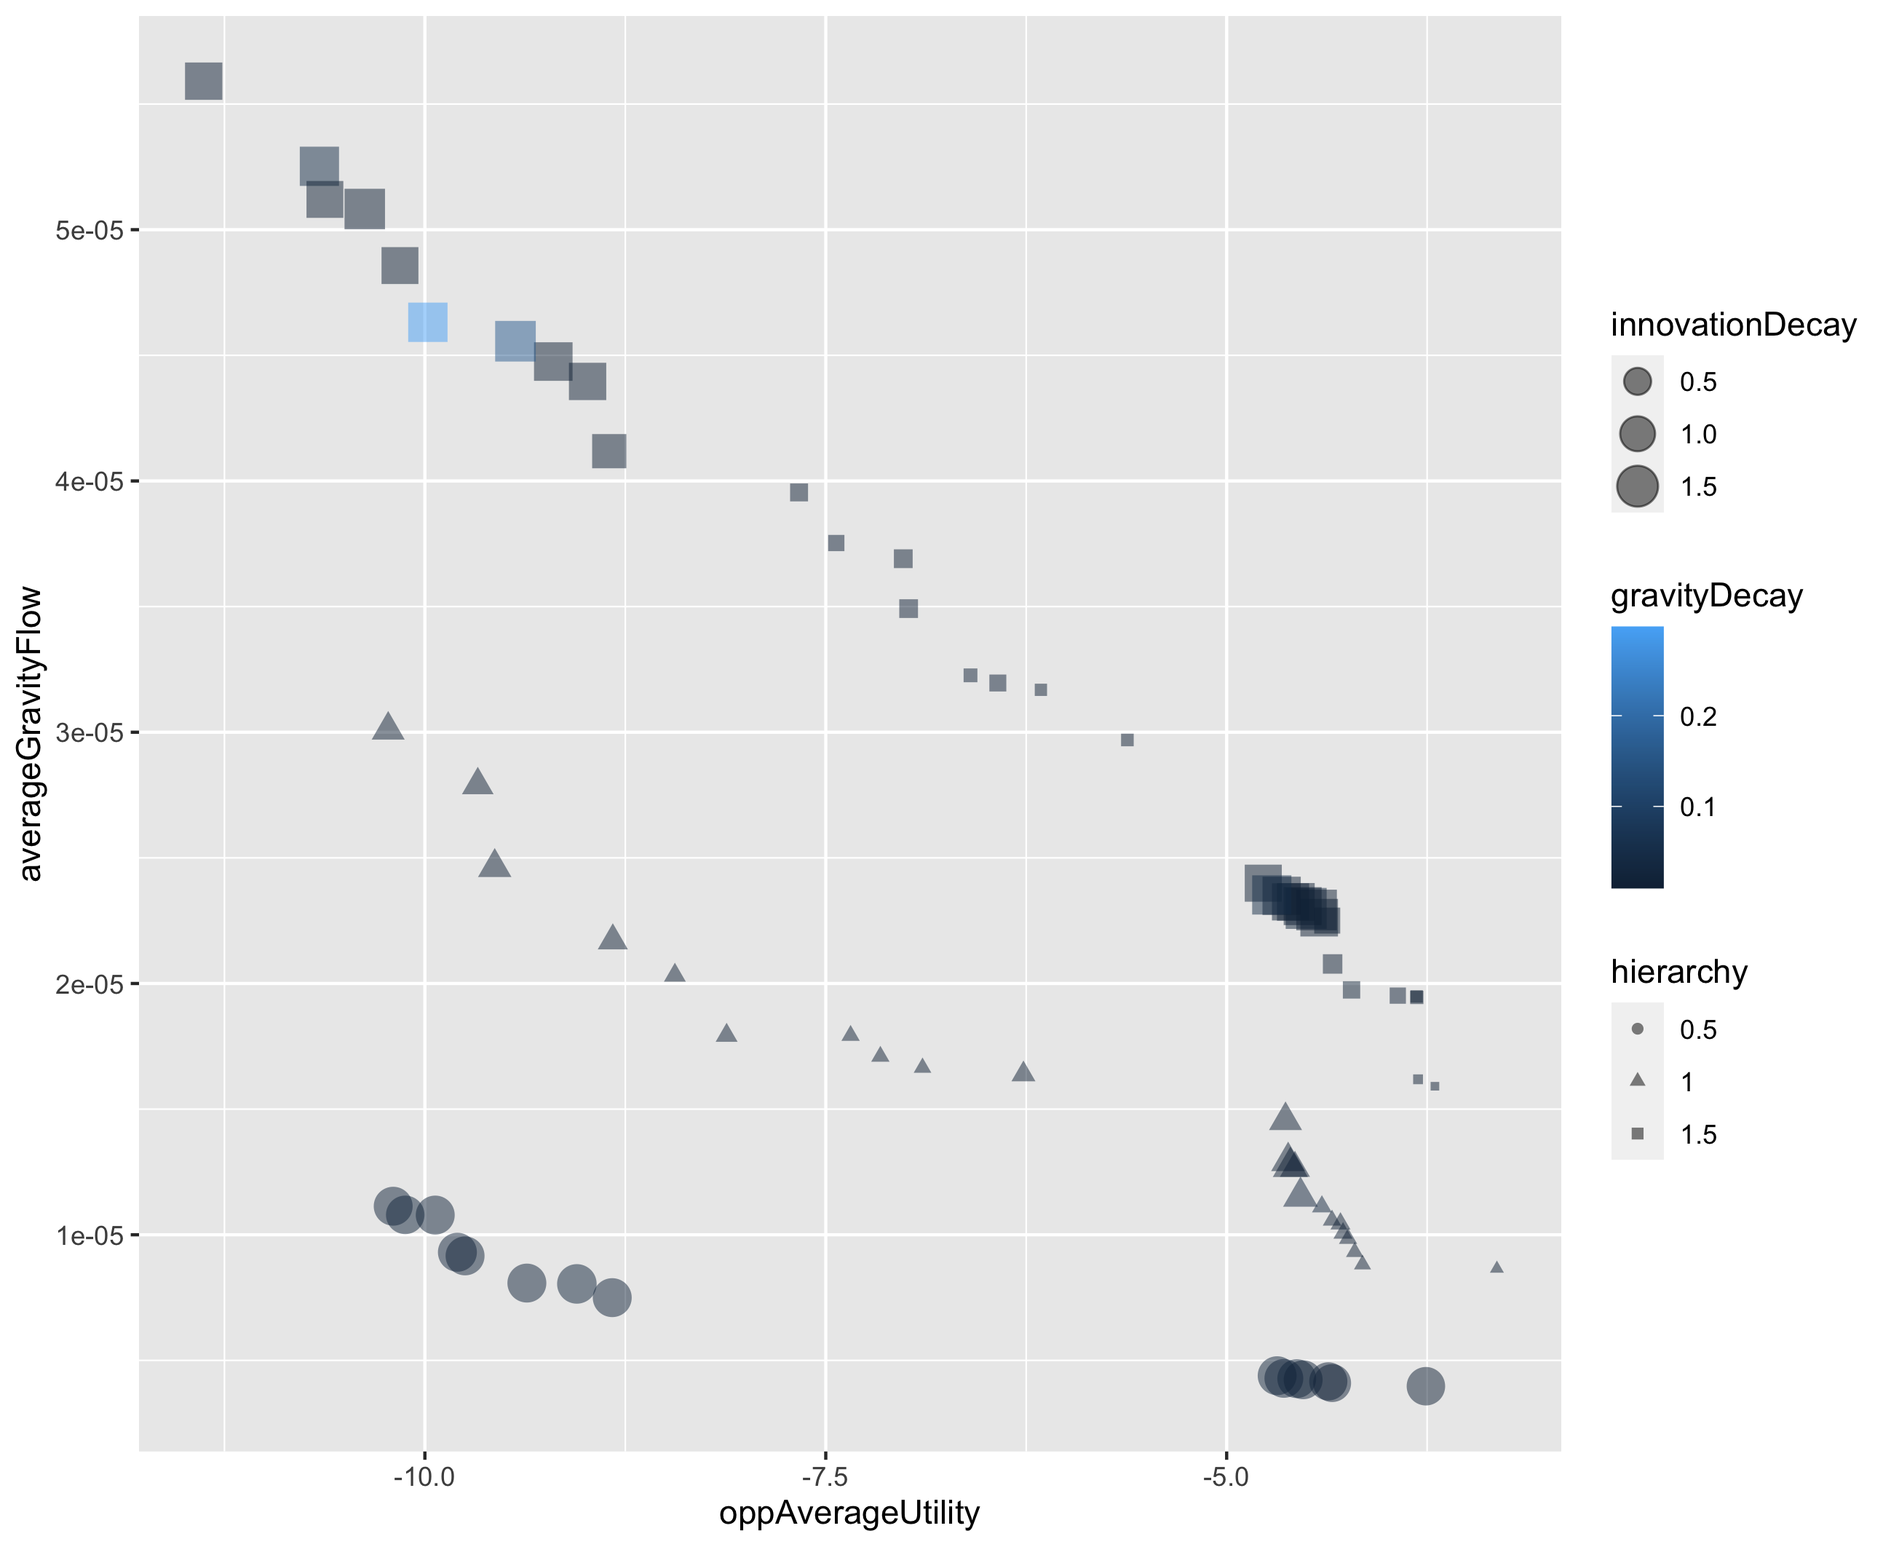
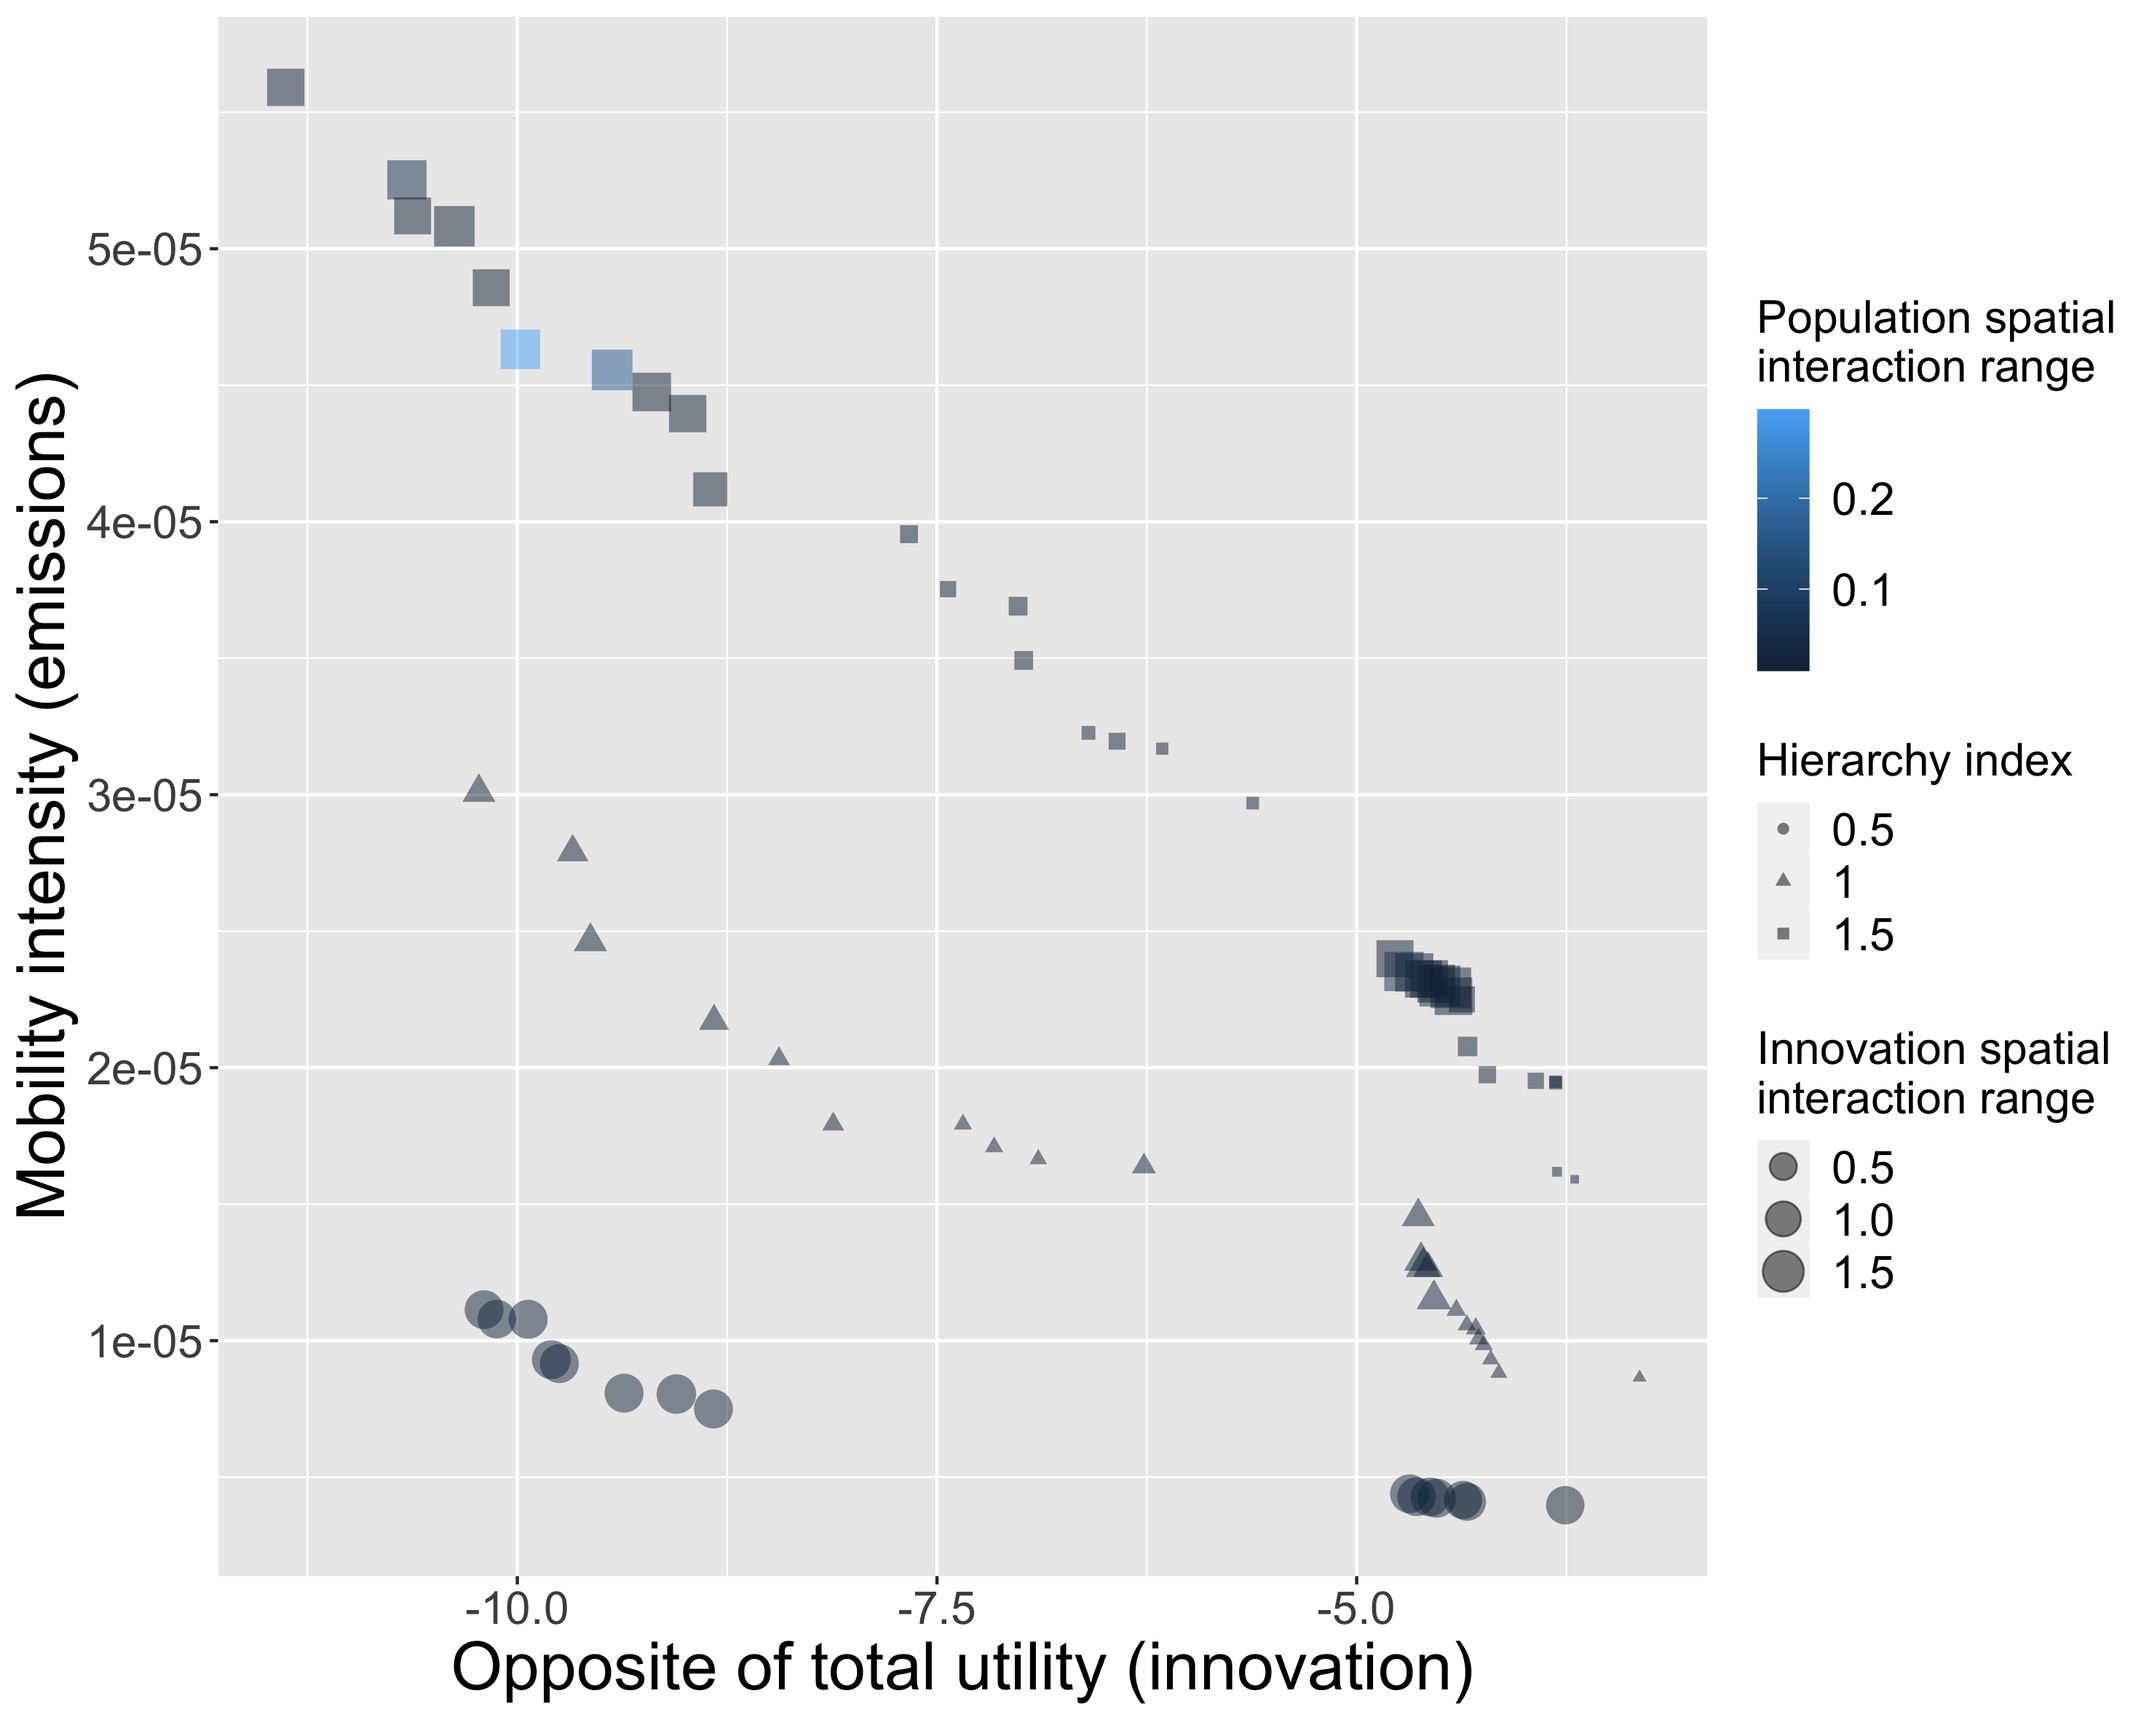
submit_paper

diff --git a/paper.tex b/paper.tex
@@ -9,13 +9,12 @@
 
 \title{Trade-offs between sustainable development goals in systems of cities}
 
+%\author{}
 \author[label1]{Juste Raimbault\corref{cor1}}
 \author[label2]{Denise Pumain}
 
-
 \address[label1]{CASA, University College London}
 \address[label2]{G{\'e}ographie-cit{\'e}s, Universit{\'e} Paris 1}
-
 
 \cortext[cor1]{Corresponding author: juste.raimbault@polytechnique.edu}
 
@@ -30,6 +29,8 @@ Sustainable Development Goals; Systems of Cities; Urban Dynamics; Innovation Dif
 \end{keyword}
 
 \end{frontmatter}
+
+%\end{document}
 
 \linenumbers
 
@@ -90,6 +91,7 @@ The last assumption regarding the utility of new innovations allows capturing so
 \subsection{Model parameters}
 
 The model parameters left free for optimisation are
+
 \begin{enumerate}
     \item spatial interaction range for innovation diffusion
     \item spatial interaction range for population growth
@@ -100,16 +102,29 @@ The model parameters left free for optimisation are
     \item type of distribution for new innovation utilities.
 \end{enumerate}
 
+Some parameters can be parametrised from real data in a rather straightforward way, such as spatial interaction ranges by fitting spatial interaction models on appropriate data for example \citep{fotheringham1989spatial}, or the level of hierarchy for new innovation by fitting urban scaling laws \citep{pumain2006evolutionary}. Other parameters such as innovation rate or the distribution of innovation utilities correspond to a more abstract formulation which can not directly be linked to real-world proxies (for example, innovations compete along a single dimension). Furthermore, some parameters can be linked to potential policies while others can difficultly be acted upon. We choose thus to work with most parameters free to maximise the degrees of freedom explored by the optimisation algorithms, in some sense explore a broader set of scenarios for urban systems.
+
 
 \subsection{Optimisation objectives}
 
-We consider the ``innovation'' SDG (goal 9) and the ``climate'' SDG (goal 14) as conflicting objectives. We can expect that a higher economic activity linked to more intensive innovative activities will increase endogenous emissions, but also transport emissions between urban areas, generated by economic and transport flows. The existence of a trade-off remains an hypothesis which will be checked during the optimisation stage (here ``optimisation'' means trying to minimise simultaneously different stylised output indicators of the model).
+We consider the ``innovation'' SDG (goal 9) and the ``climate'' SDG (goal 14) as conflicting objectives. We can expect that a higher economic activity linked to more intensive innovative activities will increase endogenous emissions, but also transport emissions between urban areas, generated by economic and transport flows. Empirical evidence does not suggest globally a simultaneous reduction of emissions through innovation \citep{chen2020does}. A potential decoupling of economic activity and emissions remains also still difficult to observe \citep{haberl2020systematic}. For these reasons, we can expect a compromise between these two dimensions. The effective existence of a trade-off in synthetic urban dynamics generated by the model remains in that context an hypothesis, which will be checked during the optimisation stage (here ``optimisation'' means trying to minimise simultaneously different stylised output indicators of the model).
 
-\cite{chen2020does}
+We consider therefore the two following objectives for model optimisation:
 
-We consider therefore the two following objectives for model optimisation: (i) aggregated total utility during model dynamics, computed over time and across cities, with shares of each innovations; (ii) total emissions due to transport flows between cities, computed as cumulative population gravity flows.
-% index of mobility intensity
-% emission" est un terme englobant toute production ou processus qui tendrait à aggraver  l'épuisement des ressources et le changement climatique liés à la croissance des villes
+\begin{enumerate}
+ \item aggregated total utility during model dynamics, computed over time and across cities, with shares of each innovations, as
+ \[
+ U = \sum_{t,i,c} \delta_{t,i,c} \cdot \frac{P_{t,i}}{P_t} \cdot u_c
+ \]
+ where $t$ are time steps, $i$ city index, $c$ innovation index, $\delta_{t,i,c}$ innovation adoption shares, $P_{t,i}$ city population, $P_t$ total population, and $u_c$ innovation utility
+ \item total emissions due to transport flows between cities, computed as cumulative population gravity flows; this indicators can be understood as some index of ``mobility intensity'' and used as a proxy for emissions; it is computed as
+ \[
+ E = \sum_{t,i,j} \frac{P_{t,i}P_{t,j}}{P_t^2} \cdot \exp\left(- d_{ij} / d_G\right)
+ \]
+ where $d_{ij}$ is the geographical distance between cities $i,j$ and $d_G$ population growth spatial interaction range.
+\end{enumerate}
+
+Note that in this abstract model and with the proxy used, ``emissions'' captures any production or process contributing to GHG emissions or to resource exhaustion linked to urban growth. More detailed indicators parametrised with empirical data remain to be explored.
 
 
 
@@ -124,13 +139,13 @@ Model optimisation is achieved by integrating the model into the OpenMOLE platfo
 
 \subsection{Bi-objective optimisation}
 
-We investigate trade-offs between total innovation utility and emissions, by optimising the model using a bi-objective heuristic with free parameters and indicators detailed above. We use a NSGA2 optimisation algorithm, provided by OpenMOLE, with a population of 100 individuals, for 10,000 generations.
-% 3.2 préciser ce que sont les "générations
+We investigate trade-offs between total innovation utility and emissions, by optimising the model using a bi-objective heuristic with free parameters and indicators detailed above. We use a NSGA2 optimisation algorithm, provided by OpenMOLE, with a population of 100 individuals, for 10,000 generations. The genetic algorithm proceeds iteratively, by progressively selecting an optimal population of individuals (parameter points), constructed from the previous generation of optimal individuals. We observe convergence when the hypervolume of the Pareto front becomes steady, what we observed in practice with this total number of runs.
+
 
 \begin{figure*}
 	\centering
 	\includegraphics[width=\linewidth]{figures/pareto-oppAverageUtility-averageGravityFlow_color-gravityDecay_size-innovationDecay_shape-utilityDistribution.png}
-	\caption{Pareto front between the opposite of average utility and total gravity flows. Point color gives population spatial interaction range; point size innovation diffusion range; and point shape the utility distribution.\label{fig:fig1}}
+	\caption{Pareto front between the opposite of average utility (innovation) and mobility intensity index (emissions). Point color gives population spatial interaction range; point size innovation diffusion range; and point shape the utility distribution.\label{fig:fig1}}
 \end{figure*}
 
 We show optimisation results, as the final algorithm population, in Fig.~\ref{fig:fig1}. We indeed find a broad Pareto front, confirming the existence of a trade-off in such urban dynamics driven by innovation diffusion. We note two parts of the Pareto front, with fat-tailed distributions for utility distribution (log-normal) giving the upper part of the front corresponding to situations with a higher utility but which are more emission intensive. Within this subfront, population spatial interaction are rather local, while a more local innovation diffusion yields less emitting configurations. A similar aspect is observed for the normal distribution subfront, with a U-shaped value of population spatial interactions when going through the front: a more integrated system in terms of population migration produces by itself an intermediate compromise.
@@ -150,12 +165,13 @@ We show optimisation results, as the final algorithm population, in Fig.~\ref{fi
 \begin{figure*}
 	\centering
 	\includegraphics[width=\linewidth]{figures/pareto-oppAverageUtility-averageGravityFlow_VARYINGHIERARCHY_color-gravityDecay_size-innovationDecay.png}
-	\caption{Pareto fronts, with initial population hierarchy fixed at different values (point shape).\label{fig:fig2}}
+	\caption{Pareto fronts, with initial population hierarchy index fixed at different values (point shape).\label{fig:fig2}}
 \end{figure*}
 
 
-%  mentionner un "hierarchy index" en le légendant comme slope of the rank size
-We now turn to experiments which could potentially provide policy insights. We run the same optimisation as before, but changing the initial population hierarchy of cities. To put it simply, we investigate how trade-offs change in different hypothetical systems of cities, ranging from highly hierarchical (Zipf exponent of 1.5) to a more balanced system (exponent of 0.5). We show results in Fig.~\ref{fig:fig2}. We find that the higher the hierarchical inequalities, the less flat the front. Overall, the less hierarchical system dominates the others (but this comparison remains limited as total population is different across systems). Furthermore, the size of the front is the smallest with the less unequal hierarchy, meaning that this system is indeed closer to some global optimum.
+We now turn to experiments which could potentially provide policy insights. We run the same optimisation as before, but changing the initial population hierarchy of cities. To put it simply, we investigate how trade-offs change in different hypothetical systems of cities, ranging from highly hierarchical (Zipf exponent of 1.5) to a more balanced system (exponent of 0.5). We expect to obtain different Pareto fronts, for different values of a hierarchy index, which corresponds to the slope of the initial Zipf law.
+
+We show results in Fig.~\ref{fig:fig2}. We find that the higher the hierarchical inequalities, the less flat the front. Overall, the less hierarchical system dominates the others (but this comparison remains limited as total population is different across systems). Furthermore, the size of the front is the smallest with the less unequal hierarchy, meaning that this system is indeed closer to some global optimum.
 
 
 
